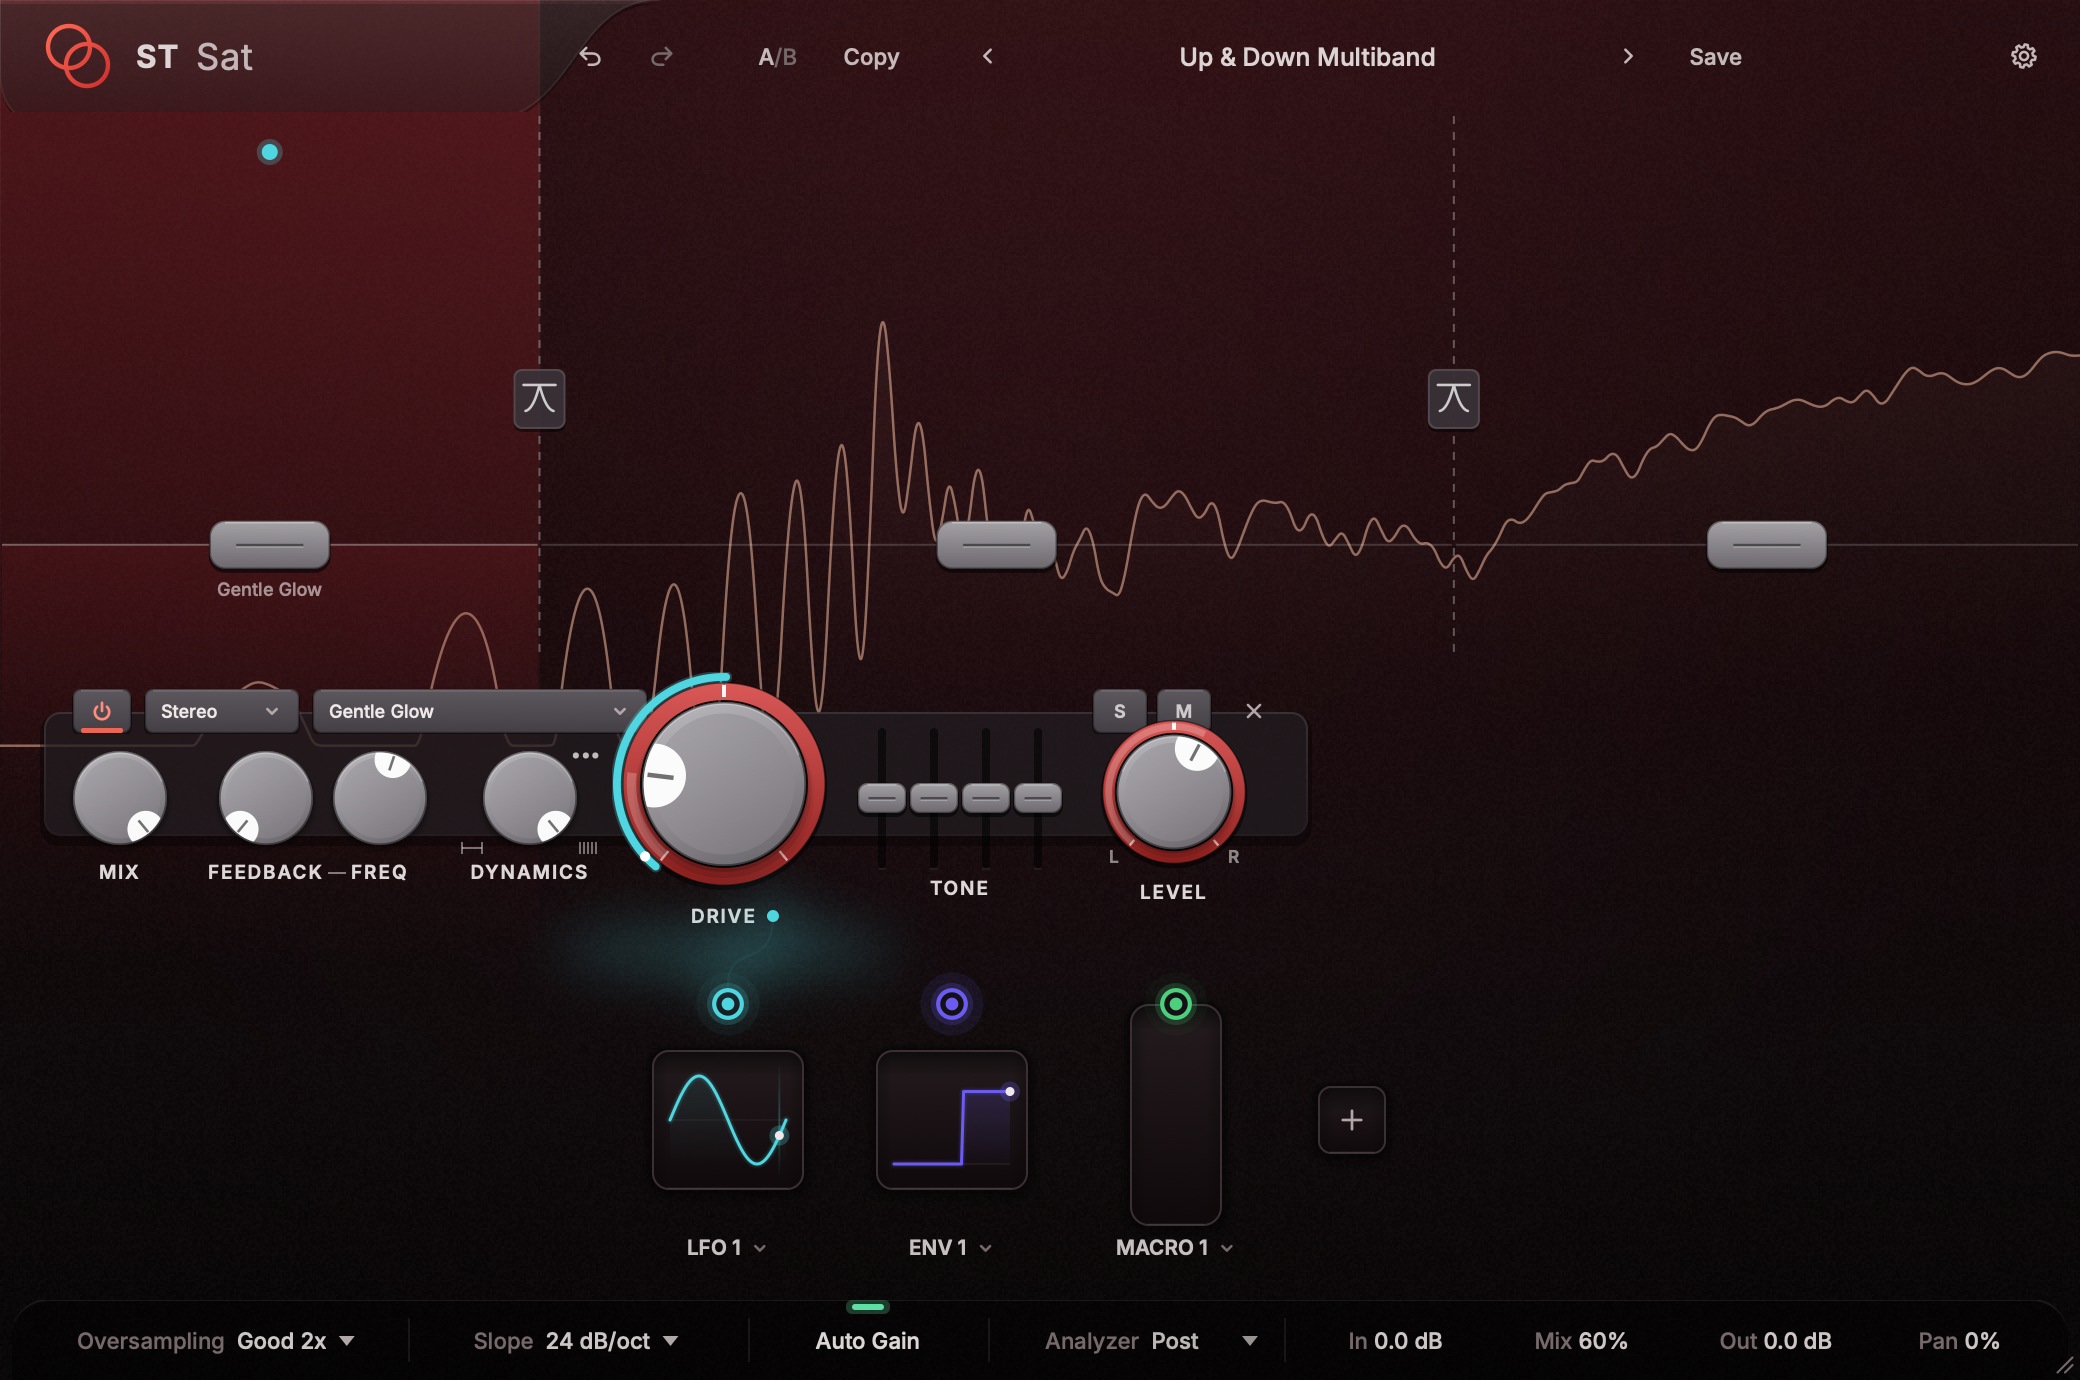
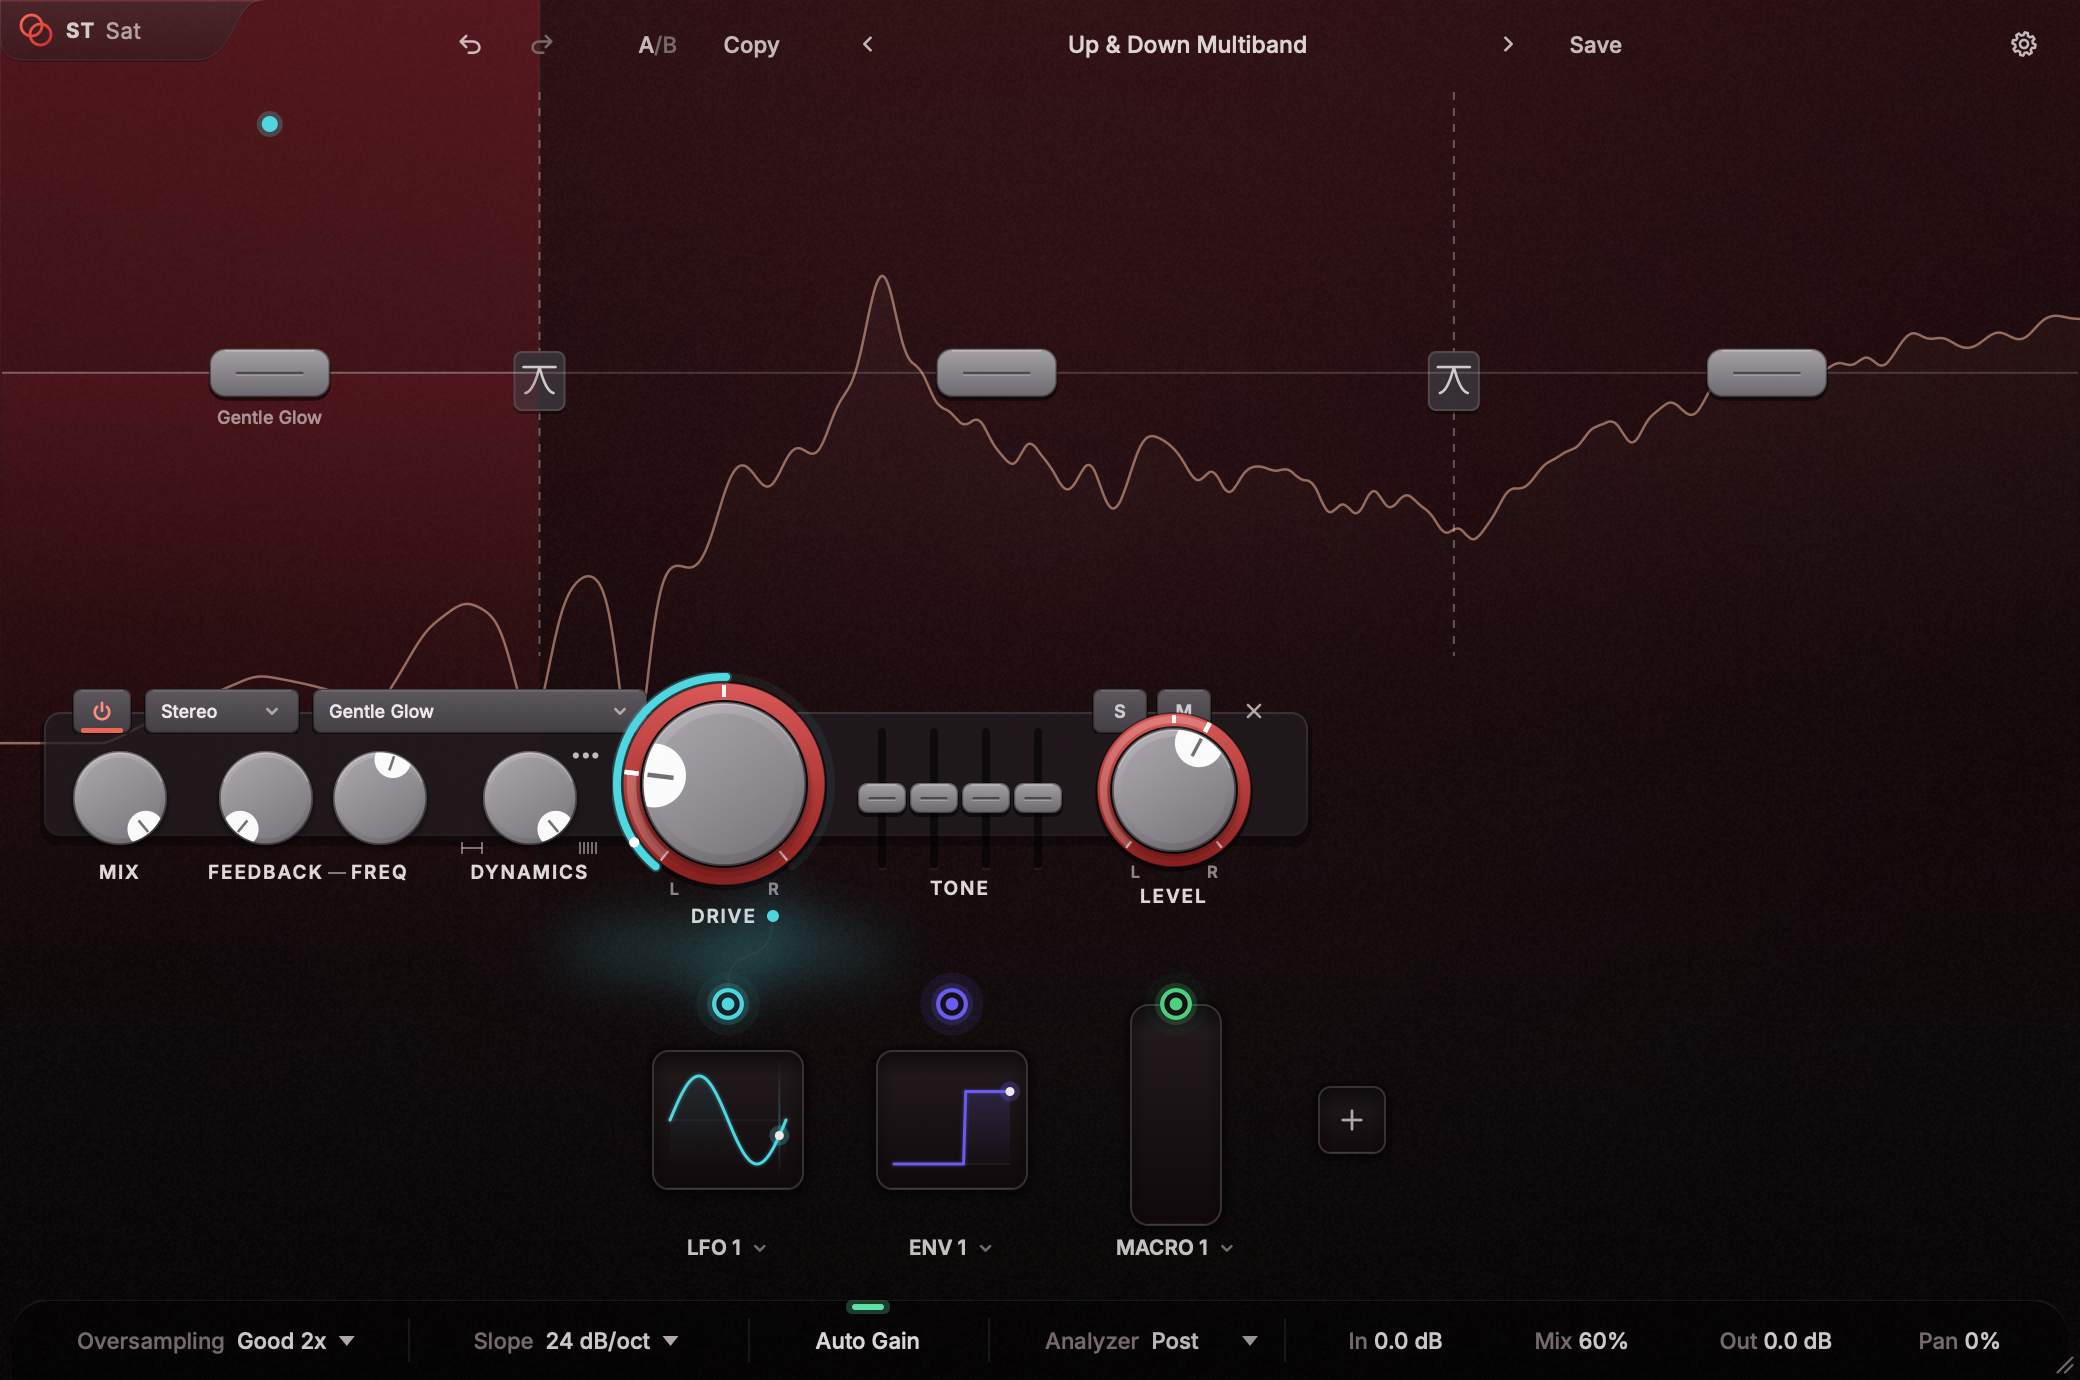
Band handles set Level, stereo drive spread on Drive rim, pan on Level rim, smoother analyser

diff --git a/Source/ui/MultibandDisplay.cpp b/Source/ui/MultibandDisplay.cpp
@@ -8,16 +8,19 @@ namespace
     st::SpectrumAnalyzer::Options analyzerOptions()
     {
         st::SpectrumAnalyzer::Options o;
-        o.fftOrder = 13;
+        o.fftOrder = 12;            // 4096: shorter window = quicker, livelier response
+        o.hopSize = 128;            // a fresh FFT nearly every display frame
         o.numDisplayPoints = 340;
         o.minHz = 15.0f;
         o.maxHz = 24000.0f;
-        o.releaseDbPerSec = 28.0f;
-        o.smoothingPasses = 2;
+        o.attack = 0.55f;
+        o.releaseDbPerSec = 34.0f;
+        o.smoothingPasses = 3;
         return o;
     }
 
     constexpr float specMinDb = -84.0f, specMaxDb = 0.0f;
+    constexpr float kLevelMin = -36.0f, kLevelMax = 24.0f;
 }
 
 MultibandDisplay::MultibandDisplay (StSatProcessor& p)
@@ -52,16 +55,17 @@ float MultibandDisplay::hzForX (float x) const noexcept
     return minHz * std::pow (maxHz / minHz, t);
 }
 
+// Band handles show / set the band's output Level: +24 dB at the top of travel, -36 dB at the bottom.
 float MultibandDisplay::yForDrive (float db) const noexcept
 {
-    const float t = std::sqrt (juce::jlimit (0.0f, 1.0f, db / 48.0f));
+    const float t = juce::jlimit (0.0f, 1.0f, (db - kLevelMin) / (kLevelMax - kLevelMin));
     return handleBottom + (handleTop - handleBottom) * t;
 }
 
 float MultibandDisplay::driveForY (float y) const noexcept
 {
     const float t = juce::jlimit (0.0f, 1.0f, (handleBottom - y) / juce::jmax (1.0f, handleBottom - handleTop));
-    return 48.0f * t * t;
+    return kLevelMin + (kLevelMax - kLevelMin) * t;
 }
 
 float MultibandDisplay::crossover (int i) const
@@ -127,7 +131,7 @@ void MultibandDisplay::resized()
 {
     plot = getLocalBounds().toFloat();
     for (int b = 0; b < kMaxBands; ++b)
-        handleY[(size_t) b].snap (yForDrive (proc.apvts.getRawParameterValue (ids::band (b, "drive"))->load()));
+        handleY[(size_t) b].snap (yForDrive (proc.apvts.getRawParameterValue (ids::band (b, "level"))->load()));
 }
 
 void MultibandDisplay::frame (double dt)
@@ -141,7 +145,7 @@ void MultibandDisplay::frame (double dt)
     for (int b = 0; b < kMaxBands; ++b)
     {
         const auto i = (size_t) b;
-        handleY[i].setTarget (yForDrive (proc.apvts.getRawParameterValue (ids::band (b, "drive"))->load()));
+        handleY[i].setTarget (yForDrive (proc.apvts.getRawParameterValue (ids::band (b, "level"))->load()));
         handleY[i].tick (dt, drag.index == b && drag.target == Target::handle ? 60.0f : 18.0f);
 
         const bool hov = hover.index == b && (hover.target == Target::handle || hover.target == Target::bandBody);
@@ -223,7 +227,7 @@ void MultibandDisplay::drawSpectrum (juce::Graphics& g)
 {
     if (analyzerMode == AnalyzerMode::off) return;
     const auto& t = st::Theme::get();
-    auto area = plot.withTrimmedTop (60.0f).withBottom (handleBottom + 40.0f);
+    auto area = plot.withTrimmedTop (48.0f).withBottom (handleBottom + 40.0f);
 
     if (analyzerMode == AnalyzerMode::preAndPost)
     {
@@ -255,7 +259,7 @@ void MultibandDisplay::drawCrossovers (juce::Graphics& g)
 
         // dashed divider
         juce::Path line;
-        line.startNewSubPath (x, plot.getY() + 58.0f);
+        line.startNewSubPath (x, plot.getY() + 46.0f);
         line.lineTo (x, handleBottom + 18.0f);
         juce::Path dashed;
         const float dashes[] = { 4.0f, 4.0f };
@@ -332,7 +336,7 @@ void MultibandDisplay::drawHandles (juce::Graphics& g)
         if (captionAlpha > 0.02f)
         {
             const int style = (int) proc.apvts.getRawParameterValue (ids::band (b, "style"))->load();
-            const auto txt = showValue ? "Drive " + proc.bandParam (b, "drive").getCurrentValueAsText()
+            const auto txt = showValue ? "Level " + proc.bandParam (b, "level").getCurrentValueAsText()
                                        : juce::String (getStyleInfo (style).name);
             g.setFont (st::fonts::medium (11.0f));
             g.setColour (t.text.withAlpha (0.75f * captionAlpha));
@@ -367,7 +371,7 @@ void MultibandDisplay::drawModDots (juce::Graphics& g)
         for (int k = 0; k < sources.size(); ++k)
         {
             const auto c = proc.modMatrix.getSourceColour (sources[k]);
-            const juce::Point<float> p (x0 + (float) k * 10.0f, plot.getY() + 76.0f);
+            const juce::Point<float> p (x0 + (float) k * 10.0f, plot.getY() + 62.0f);
             g.setColour (c.withAlpha (0.25f));
             g.fillEllipse (juce::Rectangle<float> (13.0f, 13.0f).withCentre (p));
             g.setColour (c);
@@ -414,8 +418,8 @@ void MultibandDisplay::mouseDown (const juce::MouseEvent& e)
 
     if (e.mods.isPopupMenu()) { drag = {}; return; }
 
-    proc.undoManager.beginNewTransaction ("Drive");
-    dragParam = &proc.bandParam (drag.index, "drive");
+    proc.undoManager.beginNewTransaction ("Band level");
+    dragParam = &proc.bandParam (drag.index, "level");
     dragStartValue = dragParam->convertFrom0to1 (dragParam->getValue());
     dragParam->beginChangeGesture();
 }
@@ -438,9 +442,9 @@ void MultibandDisplay::mouseDrag (const juce::MouseEvent& e)
         db = driveForY (startY + (e.position.y - dragStart.y) * scale);
     }
     else
-        db = dragStartValue + (dragStart.y - e.position.y) * (e.mods.isShiftDown() ? 0.04f : 0.18f);
+        db = dragStartValue + (dragStart.y - e.position.y) * (e.mods.isShiftDown() ? 0.04f : 0.2f);
 
-    dragParam->setValueNotifyingHost (dragParam->convertTo0to1 (juce::jlimit (0.0f, 48.0f, db)));
+    dragParam->setValueNotifyingHost (dragParam->convertTo0to1 (juce::jlimit (kLevelMin, kLevelMax, db)));
 }
 
 void MultibandDisplay::mouseUp (const juce::MouseEvent&)
@@ -456,7 +460,7 @@ void MultibandDisplay::mouseDoubleClick (const juce::MouseEvent& e)
 
     if (h.target == Target::handle)
     {
-        auto& p = proc.bandParam (h.index, "drive");
+        auto& p = proc.bandParam (h.index, "level");
         p.beginChangeGesture();
         p.setValueNotifyingHost (p.getDefaultValue());
         p.endChangeGesture();
@@ -478,11 +482,11 @@ void MultibandDisplay::mouseWheelMove (const juce::MouseEvent& e, const juce::Mo
     const auto h = hitTestAt (e.position);
     if (h.target != Target::bandBody && h.target != Target::handle) return;
 
-    auto& p = proc.bandParam (h.index, "drive");
+    auto& p = proc.bandParam (h.index, "level");
     const float dy = std::abs (w.deltaY) > std::abs (w.deltaX) ? w.deltaY : -w.deltaX;
-    const float db = p.convertFrom0to1 (p.getValue()) + dy * (e.mods.isShiftDown() ? 1.0f : 4.0f) * (w.isReversed ? -1.0f : 1.0f);
+    const float db = p.convertFrom0to1 (p.getValue()) + dy * (e.mods.isShiftDown() ? 0.5f : 3.0f) * (w.isReversed ? -1.0f : 1.0f);
     p.beginChangeGesture();
-    p.setValueNotifyingHost (p.convertTo0to1 (juce::jlimit (0.0f, 48.0f, db)));
+    p.setValueNotifyingHost (p.convertTo0to1 (juce::jlimit (kLevelMin, kLevelMax, db)));
     p.endChangeGesture();
 }
 

diff --git a/Source/dsp/Engine.cpp b/Source/dsp/Engine.cpp
@@ -22,8 +22,10 @@ void BandProcessor::prepare (double rate, int maxBlock, int channels, int factor
     dynamics.prepare (fs, maxBlock, numCh);
     dry.setSize (numCh, maxBlock, false, false, true);
 
-    for (auto* s : { &feedbackGain, &wet, &gainL, &gainR, &bypassMix, &audibleGain })
+    for (auto* s : { &feedbackGain, &wet, &gainL, &gainR, &bypassMix, &audibleGain, &spreadL, &spreadR })
         s->prepare (fs, 25.0);
+    spreadL.setCurrentAndTarget (1.0f);
+    spreadR.setCurrentAndTarget (1.0f);
 
     feedbackGain.setCurrentAndTarget (0.0f);
     wet.setCurrentAndTarget (settings.mix);
@@ -63,6 +65,8 @@ void BandProcessor::setSettings (const BandSettings& s) noexcept
 
     // Feedback: perceptually scaled, stays below self-oscillation runaway (the saturator bounds it anyway).
     feedbackGain.setTarget (0.92f * std::pow (s.feedback, 0.7f));
+    spreadL.setTarget (juce::Decibels::decibelsToGain (-0.5f * s.driveSpreadDb));
+    spreadR.setTarget (juce::Decibels::decibelsToGain (0.5f * s.driveSpreadDb));
     wet.setTarget (s.mix);
     bypassMix.setTarget (s.bypass ? 0.0f : 1.0f);
     audibleGain.setTarget (s.audible);
@@ -123,14 +127,24 @@ void BandProcessor::processActiveChannels (juce::AudioBuffer<float>& band, int n
         dynamics.process (view, n);
 
     // Saturation with resonant feedback loop (per frame).
+    // Stereo drive spread: extra pre-gain per channel (only when both channels are processed);
+    // undone after the saturator when auto gain is on, so it reads as "more/less drive", not level.
+    const bool spread = numActive == 2;
+    const bool undoSpread = settings.autoGain;
+
     float frame[2];
     for (int i = 0; i < n; ++i)
     {
         const float fbg = feedbackGain.getNext();
+        const float sg[2] = { spreadL.getNext(), spreadR.getNext() };
         for (int c = 0; c < numActive; ++c)
-            frame[c] = ch[c][i] + fbg * feedbackState[(size_t) c];
+            frame[c] = (ch[c][i] + fbg * feedbackState[(size_t) c]) * (spread ? sg[c] : 1.0f);
 
         saturator.processFrame (frame, numActive);
+
+        if (spread && undoSpread)
+            for (int c = 0; c < numActive; ++c)
+                frame[c] /= sg[c];
 
         for (int c = 0; c < numActive; ++c)
         {

diff --git a/Source/Params.cpp b/Source/Params.cpp
@@ -65,6 +65,14 @@ juce::AudioProcessorValueTreeState::ParameterLayout createParameterLayout (const
 
         group->addChild (makeChoice (id ("style"), n + "Style", styles, defStyle));
         group->addChild (makeFloat (id ("drive"), n + "Drive", skewed (0.0f, 48.0f, 12.0f, 0.01f), defaults::drive, dbAttributes()));
+        group->addChild (makeFloat (id ("drive_spread"), n + "Stereo Drive Spread", linear (-24.0f, 24.0f, 0.01f), 0.0f,
+                                    juce::AudioParameterFloatAttributes()
+                                        .withStringFromValueFunction ([] (float v, int)
+                                        {
+                                            if (std::abs (v) < 0.05f) return juce::String ("Centre");
+                                            return juce::String (std::abs (v), 1) + " dB " + (v < 0.0f ? "L" : "R");
+                                        })
+                                        .withValueFromStringFunction ([] (const juce::String& s) { return s.retainCharacters ("-+.0123456789").getFloatValue(); })));
         group->addChild (makeFloat (id ("dyn"), n + "Dynamics", linear (-100.0f, 100.0f, 0.01f), 0.0f, percentAttributes (true)));
         group->addChild (makeFloat (id ("dyn_up_thresh"), n + "Upward Threshold", linear (-72.0f, 0.0f, 0.01f), -36.0f, dbAttributes()));
         group->addChild (makeFloat (id ("dyn_up_ratio"), n + "Upward Ratio", skewed (1.0f, 20.0f, 3.0f, 0.01f), 3.0f, ratioAttributes()));
@@ -103,7 +111,7 @@ juce::StringArray getModulatableParameterIds()
         out.add (ids::crossover (i));
 
     for (int b = 0; b < kMaxBands; ++b)
-        for (auto s : { "drive", "dyn", "dyn_up_thresh", "dyn_up_ratio", "dyn_down_thresh", "dyn_down_ratio",
+        for (auto s : { "drive", "drive_spread", "dyn", "dyn_up_thresh", "dyn_up_ratio", "dyn_down_thresh", "dyn_down_ratio",
                         "dyn_attack", "dyn_release", "tone_low", "tone_lmid", "tone_hmid", "tone_high", "fb", "fb_freq", "mix", "level", "pan" })
             out.add (ids::band (b, s));
 

diff --git a/Source/ui/Panels.cpp b/Source/ui/Panels.cpp
@@ -141,8 +141,10 @@ FloatingBandPanel::FloatingBandPanel (StSatProcessor& p, int b) : proc (p), band
         addAndMakeVisible (*tone[(size_t) i]);
     }
 
-    pan = std::make_unique<PanStrip> (P ("pan"), um);
-    addAndMakeVisible (*pan);
+    drive->setRimParameter (&P ("drive_spread"), "Spread");
+    drive->setTooltip ("Drive. Drag the red ring to spread the drive between left and right.");
+    level->setRimParameter (&P ("pan"), "Pan");
+    level->setTooltip ("Band level. Drag the red ring to pan the band.");
 
     dynDetail.setButtonText (juce::String (juce::CharPointer_UTF8 ("\xe2\x80\xa2\xe2\x80\xa2\xe2\x80\xa2")));
     dynDetail.setFontHeight (11.0f);
@@ -180,8 +182,7 @@ void FloatingBandPanel::resized()
     for (int i = 0; i < 4; ++i)
         tone[(size_t) i]->setBounds (toneArea.getX() + i * 26, toneArea.getY(), 26, 82);
 
-    level->setBounds (536, 22, 86, 100);
-    pan->setBounds (level->getX() + 8, level->getBottom() - 34, level->getWidth() - 16, 12);
+    level->setBounds (532, 18, 94, 106);
 }
 
 void FloatingBandPanel::paint (juce::Graphics& g)
@@ -382,8 +383,7 @@ FooterBar::FooterBar (StSatProcessor& p)
         m.addItem (1, "Off", true, analyzerMode == 0);
         m.addItem (2, "Post", true, analyzerMode == 1);
         m.addItem (3, "Pre + Post", true, analyzerMode == 2);
-        m.showMenuAsync (juce::PopupMenu::Options().withTargetComponent (&analyzer),
-                         [safe = juce::Component::SafePointer<FooterBar> (this)] (int r) { if (safe != nullptr && r > 0) safe->setAnalyzerMode (r - 1); });
+        st::showMenu (m, &analyzer, [safe = juce::Component::SafePointer<FooterBar> (this)] (int r) { if (safe != nullptr && r > 0) safe->setAnalyzerMode (r - 1); });
     };
 
     for (juce::Component* c : { (juce::Component*) &quality, (juce::Component*) &slope, (juce::Component*) &autoGain, (juce::Component*) &analyzer,

diff --git a/Source/PluginProcessor.cpp b/Source/PluginProcessor.cpp
@@ -34,6 +34,7 @@ StSatProcessor::StSatProcessor()
         auto& r = bandRefs[(size_t) b];
         auto id = [b] (const char* s) { return ids::band (b, s); };
         bind (r.style, id ("style"));             bind (r.drive, id ("drive"));
+        bind (r.driveSpread, id ("drive_spread"));
         bind (r.dyn, id ("dyn"));                 bind (r.upT, id ("dyn_up_thresh"));
         bind (r.upR, id ("dyn_up_ratio"));        bind (r.downT, id ("dyn_down_thresh"));
         bind (r.downR, id ("dyn_down_ratio"));    bind (r.attack, id ("dyn_attack"));
@@ -131,6 +132,7 @@ void StSatProcessor::updateEngineSettings() noexcept
         BandSettings s;
         s.style = r.style.getInt();
         s.driveDb = value (r.drive);
+        s.driveSpreadDb = value (r.driveSpread);
         s.dynamics = value (r.dyn) * 0.01f;
         s.upThresholdDb = value (r.upT);
         s.upRatio = value (r.upR);

diff --git a/Source/dsp/Engine.h b/Source/dsp/Engine.h
@@ -10,6 +10,7 @@ struct BandSettings
 {
     int style = 0;
     float driveDb = 0.0f;
+    float driveSpreadDb = 0.0f;     // + = more drive on the right (or side) channel
     float dynamics = 0.0f;          // -1..+1
     float upThresholdDb = -36.0f, upRatio = 3.0f;
     float downThresholdDb = -18.0f, downRatio = 4.0f;
@@ -60,7 +61,7 @@ private:
     st::dsp::UpDownCompressor dynamics;
     juce::AudioBuffer<float> dry;
 
-    st::dsp::LinearSmoother feedbackGain, wet, gainL, gainR, bypassMix, audibleGain;
+    st::dsp::LinearSmoother feedbackGain, wet, gainL, gainR, bypassMix, audibleGain, spreadL, spreadR;
     std::array<float, 2> feedbackState {};
     ChannelMode lastChannelMode = ChannelMode::stereo;
     float levelFollower = 0.0f, levelCoeff = 0.999f;

diff --git a/Source/Params.h b/Source/Params.h
@@ -25,7 +25,7 @@ namespace ids
 
     // Per-band parameter suffixes. Full ID: "b<n>_<suffix>", n = 1..6
     inline const juce::StringArray bandSuffixes {
-        "style", "drive", "dyn", "dyn_up_thresh", "dyn_up_ratio", "dyn_down_thresh", "dyn_down_ratio",
+        "style", "drive", "drive_spread", "dyn", "dyn_up_thresh", "dyn_up_ratio", "dyn_down_thresh", "dyn_down_ratio",
         "dyn_attack", "dyn_release", "dyn_pos", "tone_low", "tone_lmid", "tone_hmid", "tone_high", "fb", "fb_freq", "mix", "level", "pan",
         "chan", "mute", "solo", "bypass"
     };

diff --git a/Source/PluginProcessor.h b/Source/PluginProcessor.h
@@ -45,7 +45,7 @@ private:
 
     struct BandRefs
     {
-        MRef style, drive, dyn, upT, upR, downT, downR, attack, release, dynPos,
+        MRef style, drive, driveSpread, dyn, upT, upR, downT, downR, attack, release, dynPos,
              toneLow, toneLmid, toneHmid, toneHigh, fb, fbFreq, mix, level, pan, chan, mute, solo, bypass;
     };
     std::array<BandRefs, stsat::kMaxBands> bandRefs;

diff --git a/Source/PluginEditor.cpp b/Source/PluginEditor.cpp
@@ -15,7 +15,7 @@ StSatEditor::StSatEditor (StSatProcessor& p)
     content.addAndMakeVisible (footer);
     header.toFront (false);
 
-    display.setHandleRange (118.0f, (float) panelY - 22.0f);
+    display.setHandleRange (104.0f, (float) panelY - 24.0f);
     display.onBandSelected = [this] (int b) { selectBand (b); };
     display.onFrame = [this] (double dt) { animate (dt); };
 

diff --git a/Source/ui/Panels.h b/Source/ui/Panels.h
@@ -50,7 +50,6 @@ private:
     st::IconButton closeButton { st::icons::Icon::close, "Remove band" };
     std::unique_ptr<st::Knob> mix, feedback, fbFreq, dynamics, drive, level;
     std::array<std::unique_ptr<st::Fader>, 4> tone;
-    std::unique_ptr<PanStrip> pan;
     st::FlatButton dynDetail { "", "Upward / downward dynamics detail" };
 
     juce::Rectangle<float> box;
